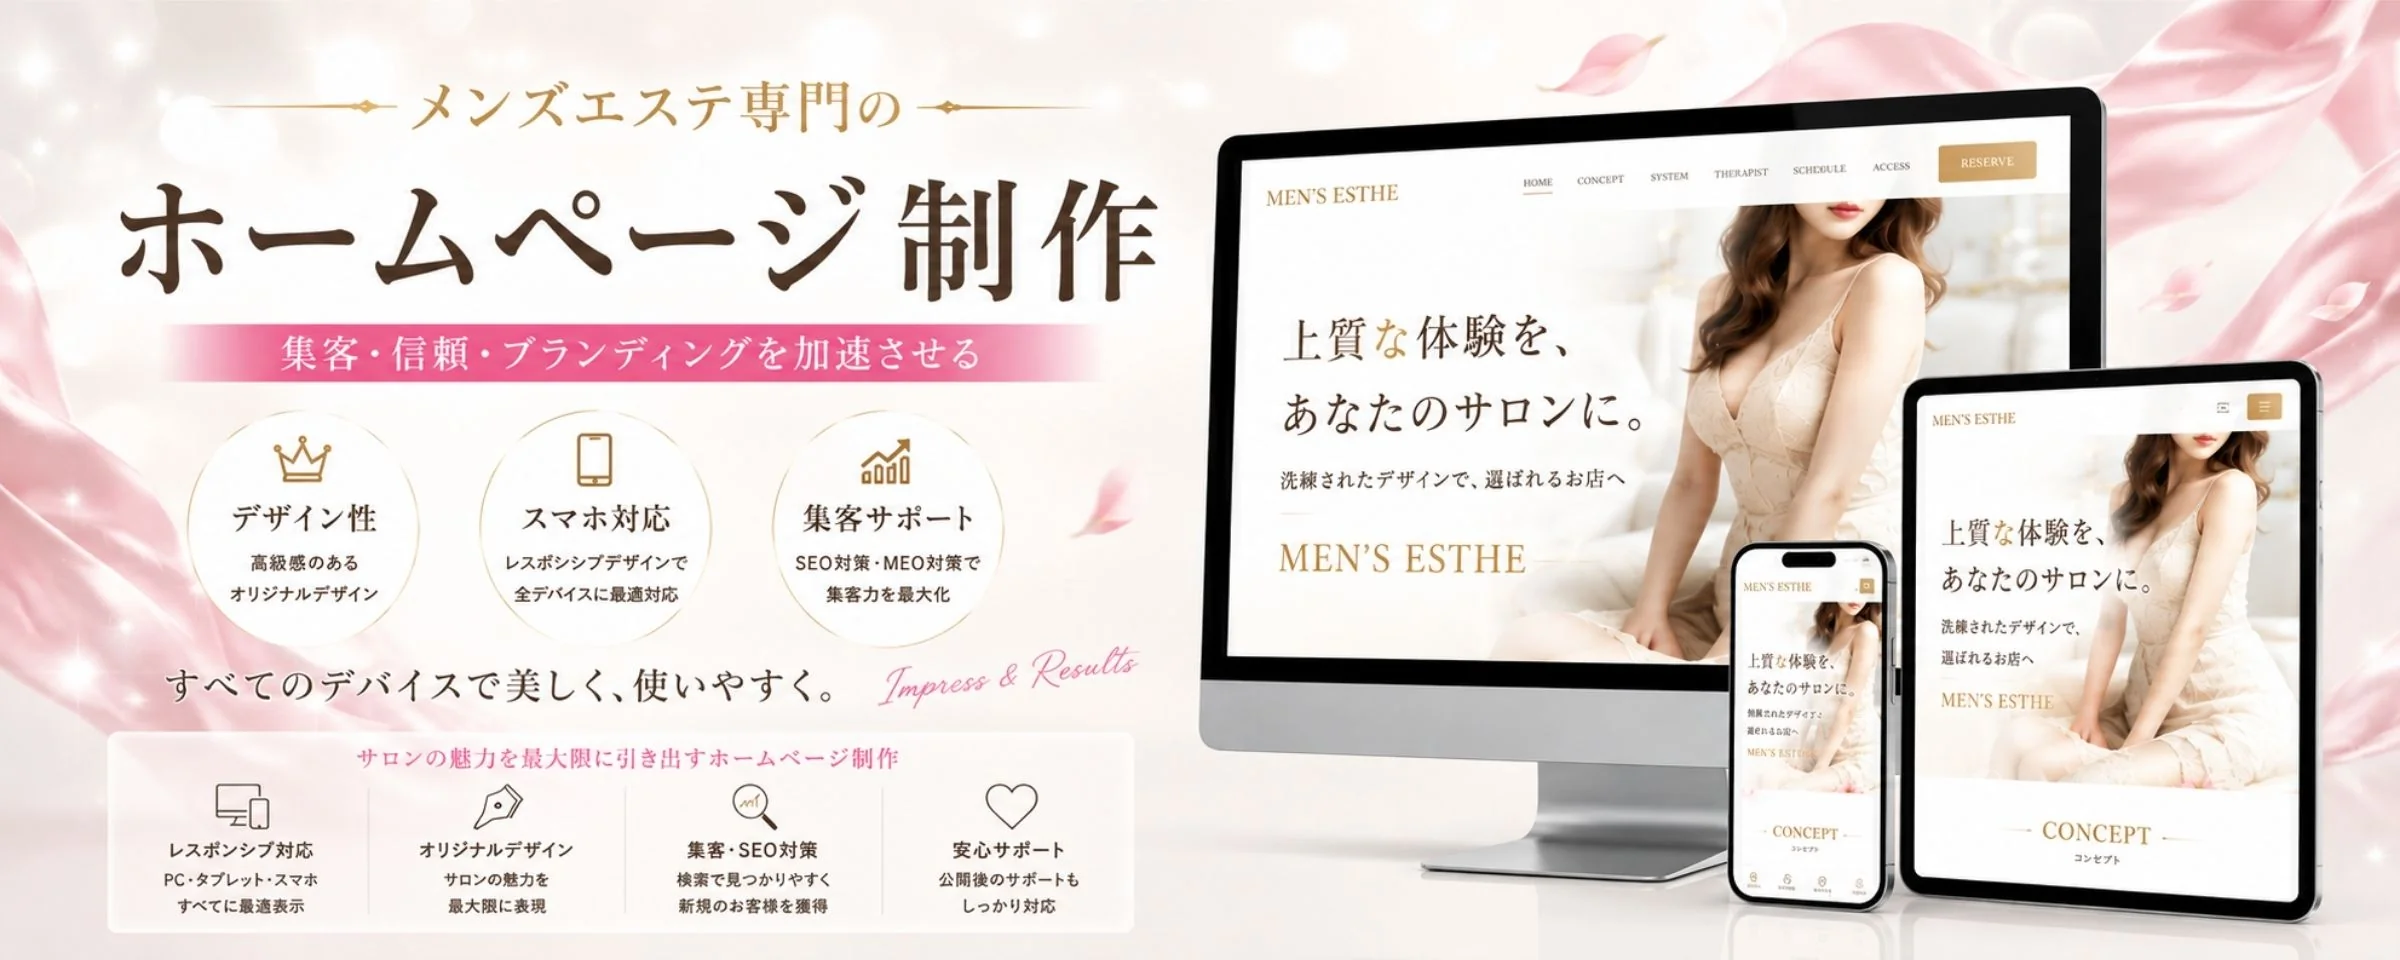
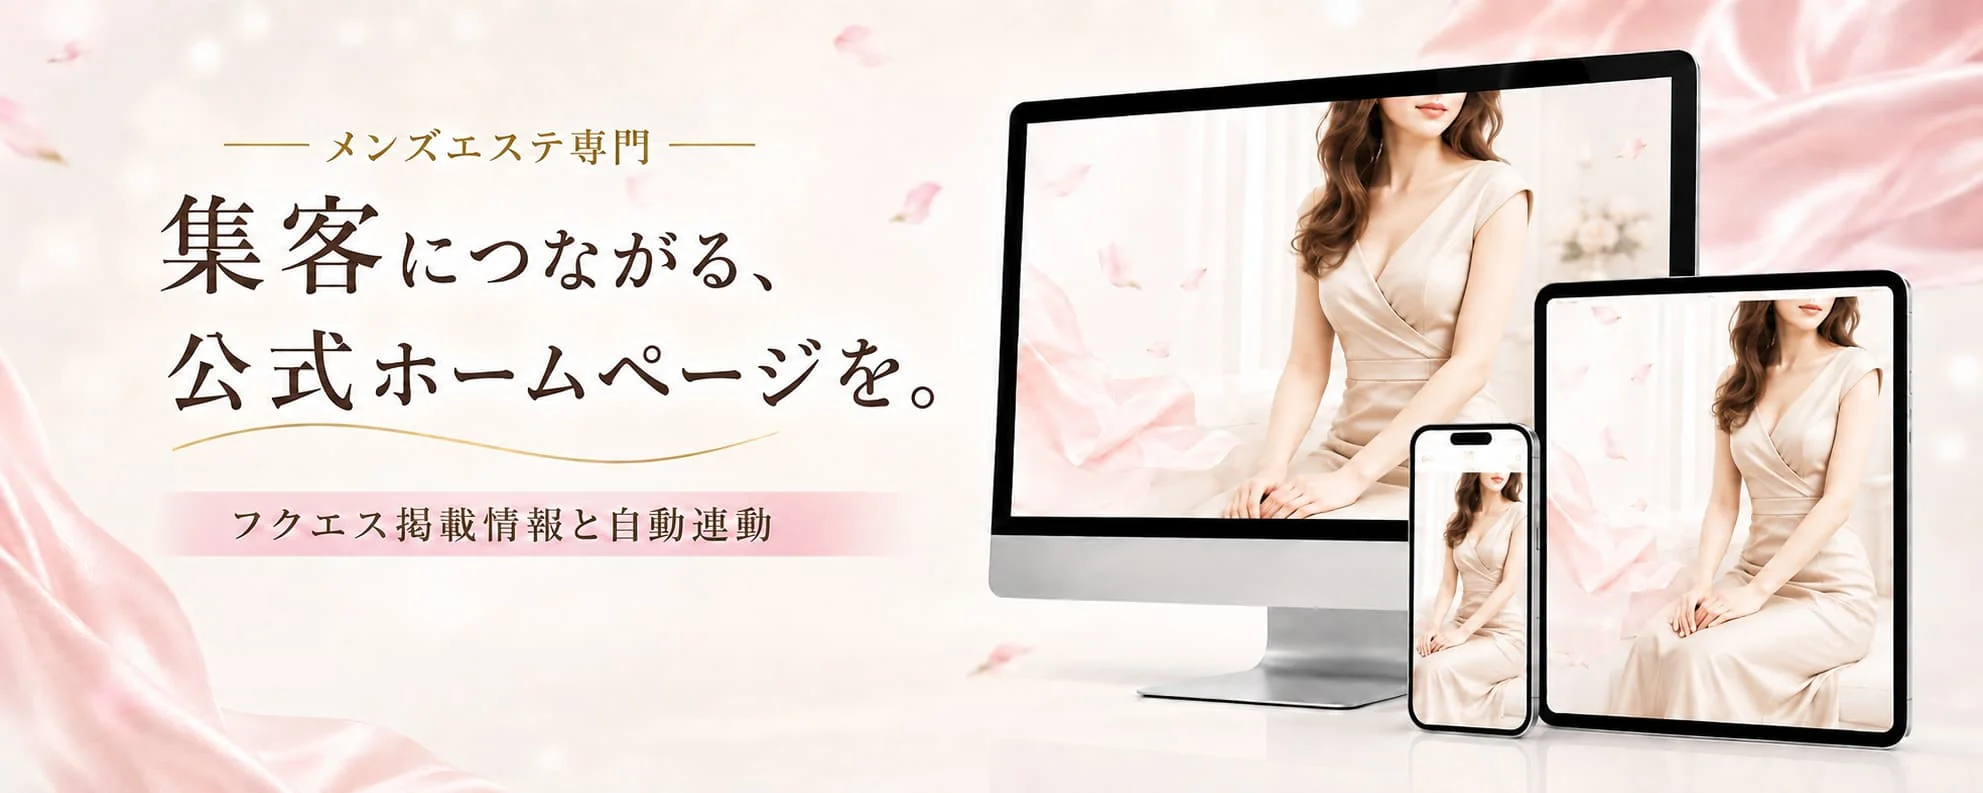
HP紹介ページのヒーロー画像を新デザインへ差し替え

diff --git a/src/app/hp/templates/page.tsx b/src/app/hp/templates/page.tsx
@@ -31,10 +31,12 @@ import {
 //      フクエス契約→制作料0円・＋ワーク両方契約→月々も0円。この数字を変えるときは営業資料・規約と必ず同時に。
 //   6. 制作の流れ 5ステップ → フッター（お問い合わせ）
 //
-// 画像: public/hp-lp/hero-pc.webp（2400×960・2.5:1）/ hero-sp.webp（1080×1350・4:5）。
-// 差し替え時は同名で上書きすればよい（この寸法・比率を守ること）。
+// 画像: public/hp-lp/hero-pc.webp（1983×793・2.5:1）/ hero-sp.webp（864×1821・約1:2.1）。
+// 差し替え時は同名で上書きすればよい（文字が焼き込まれているので比率を守ること）。
 // ※ PC は当初 16:9（2400×1350）だったが「画面全部が画像で埋まって圧迫感がある」ため、
 //   vootec のサンプルサイトと同じ 2.5:1 に変更（2026-08-09）。フルHDで下に次のセクションが覗く。
+// ※ スマホは 4:5（1080×1350）から縦長の約1:2.1 へ差し替え（2026-08-15）。
+//   ノートPC・タブレットの端末写真まで入れたぶん縦に伸びており、iPhone（幅390px）で高さ約822px＝ほぼ1画面。
 //
 // 各デザインの「デモを見る」は /hp/demo/preview/{template}/{color} へ。
 // demo は HP_DEMO_SLUG の予約 slug で、この slug に限りプレビューがログイン不要
@@ -72,7 +74,7 @@ export default function HpTemplatesPage() {
   return (
     <div className="min-h-screen bg-[#fdf5f5] text-[#4a3f3a]">
       {/* ── ヒーロー（KV・文字焼き込み済み）──
-          PC は 16:9・スマホは縦長を <picture> で出し分け。文字が欠けるため cover 切り抜きはしない */}
+          PC は 2.5:1・スマホは縦長を <picture> で出し分け。文字が欠けるため cover 切り抜きはしない */}
       <section>
         <picture>
           <source media="(max-width: 639px)" srcSet="/hp-lp/hero-sp.webp" />
